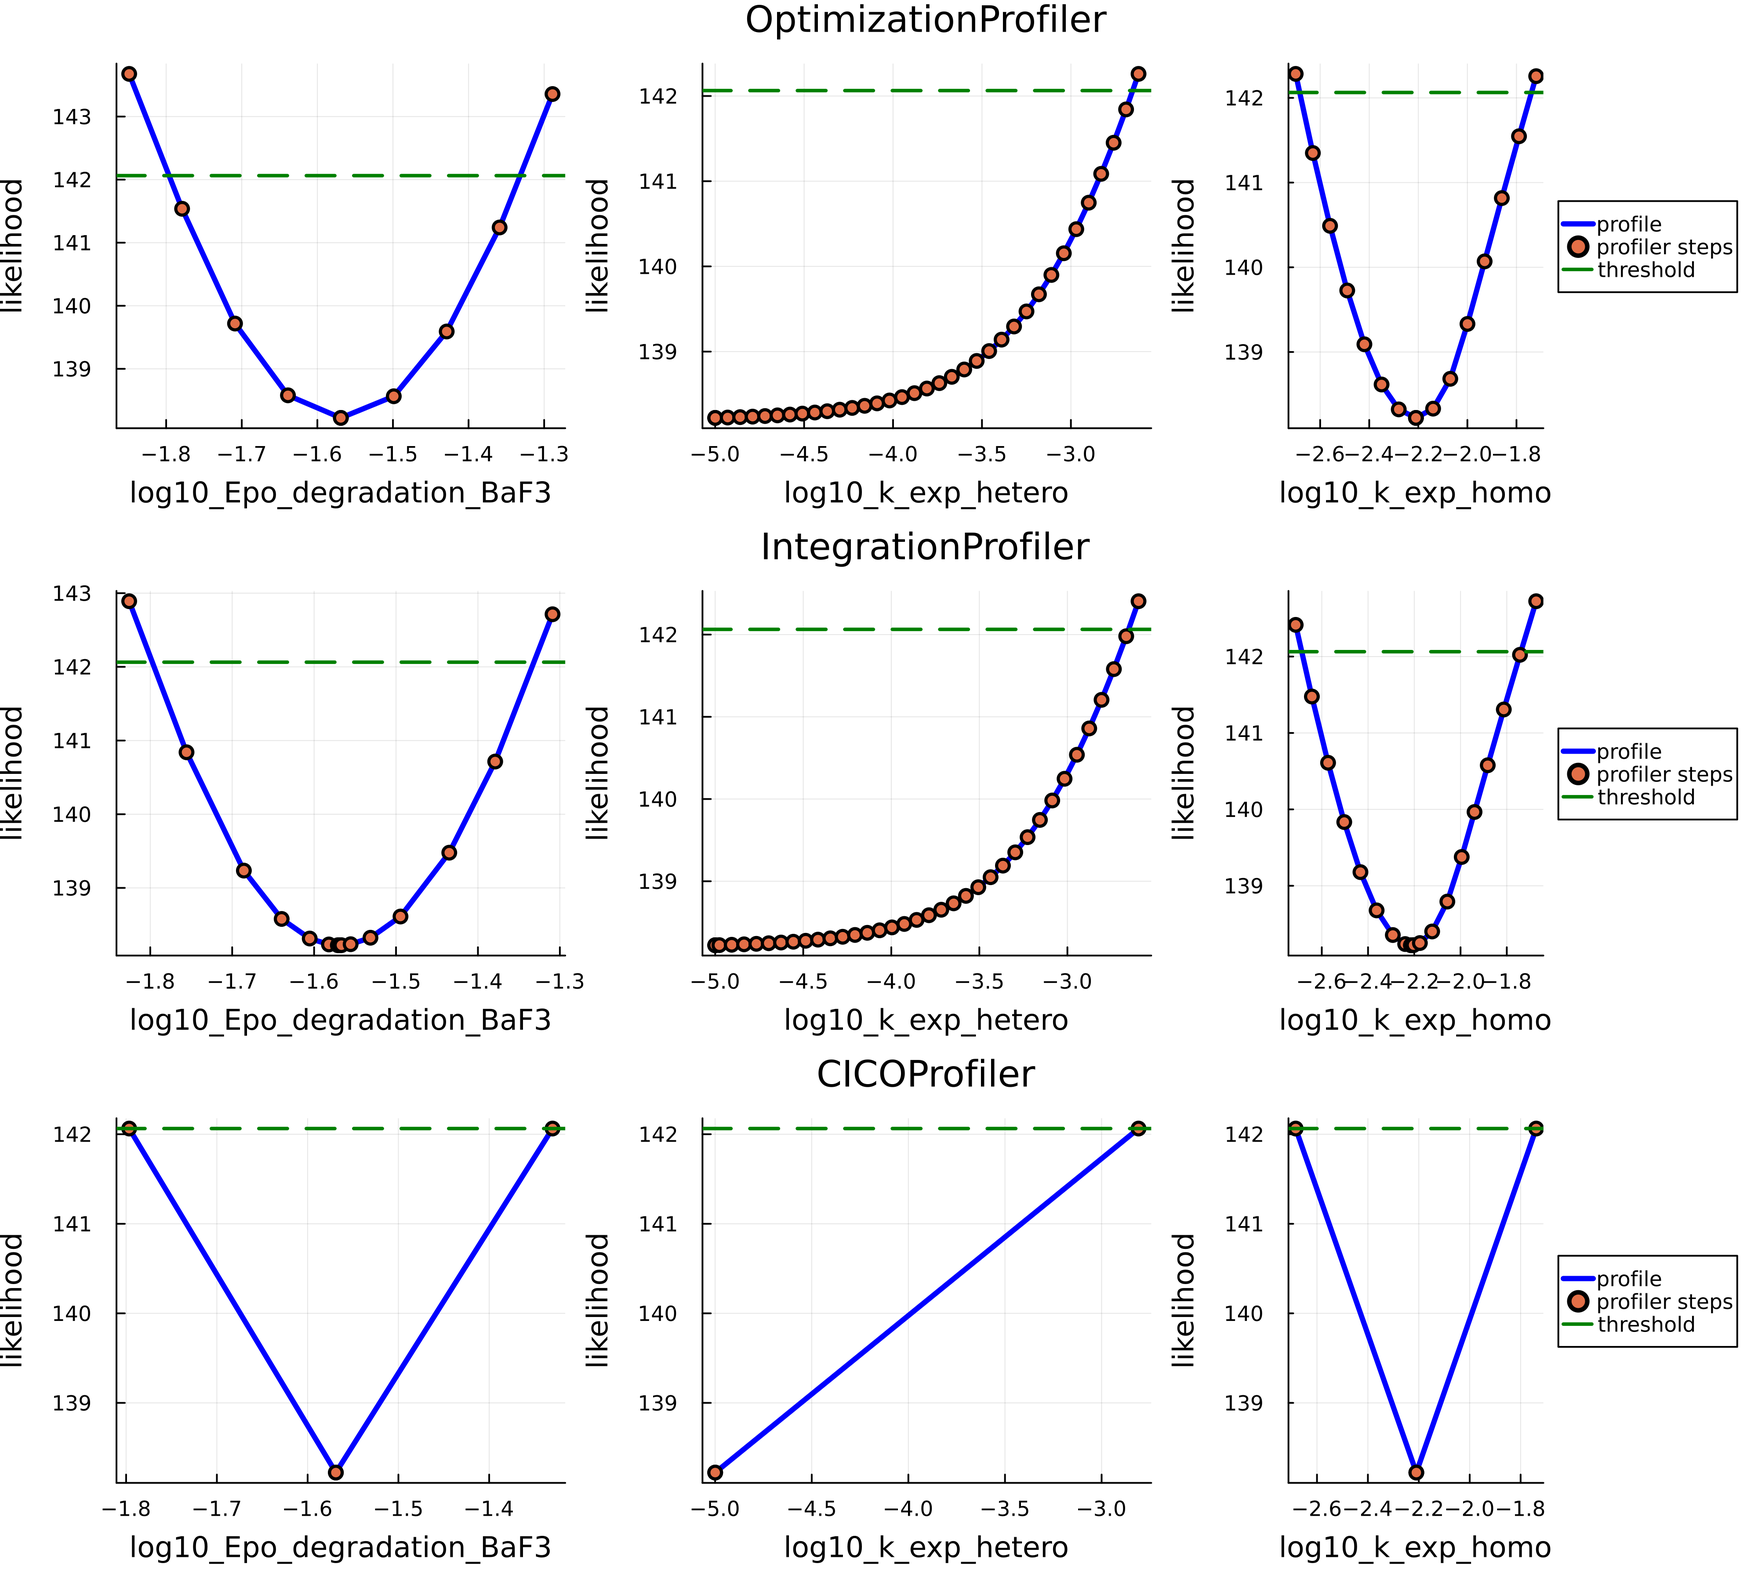
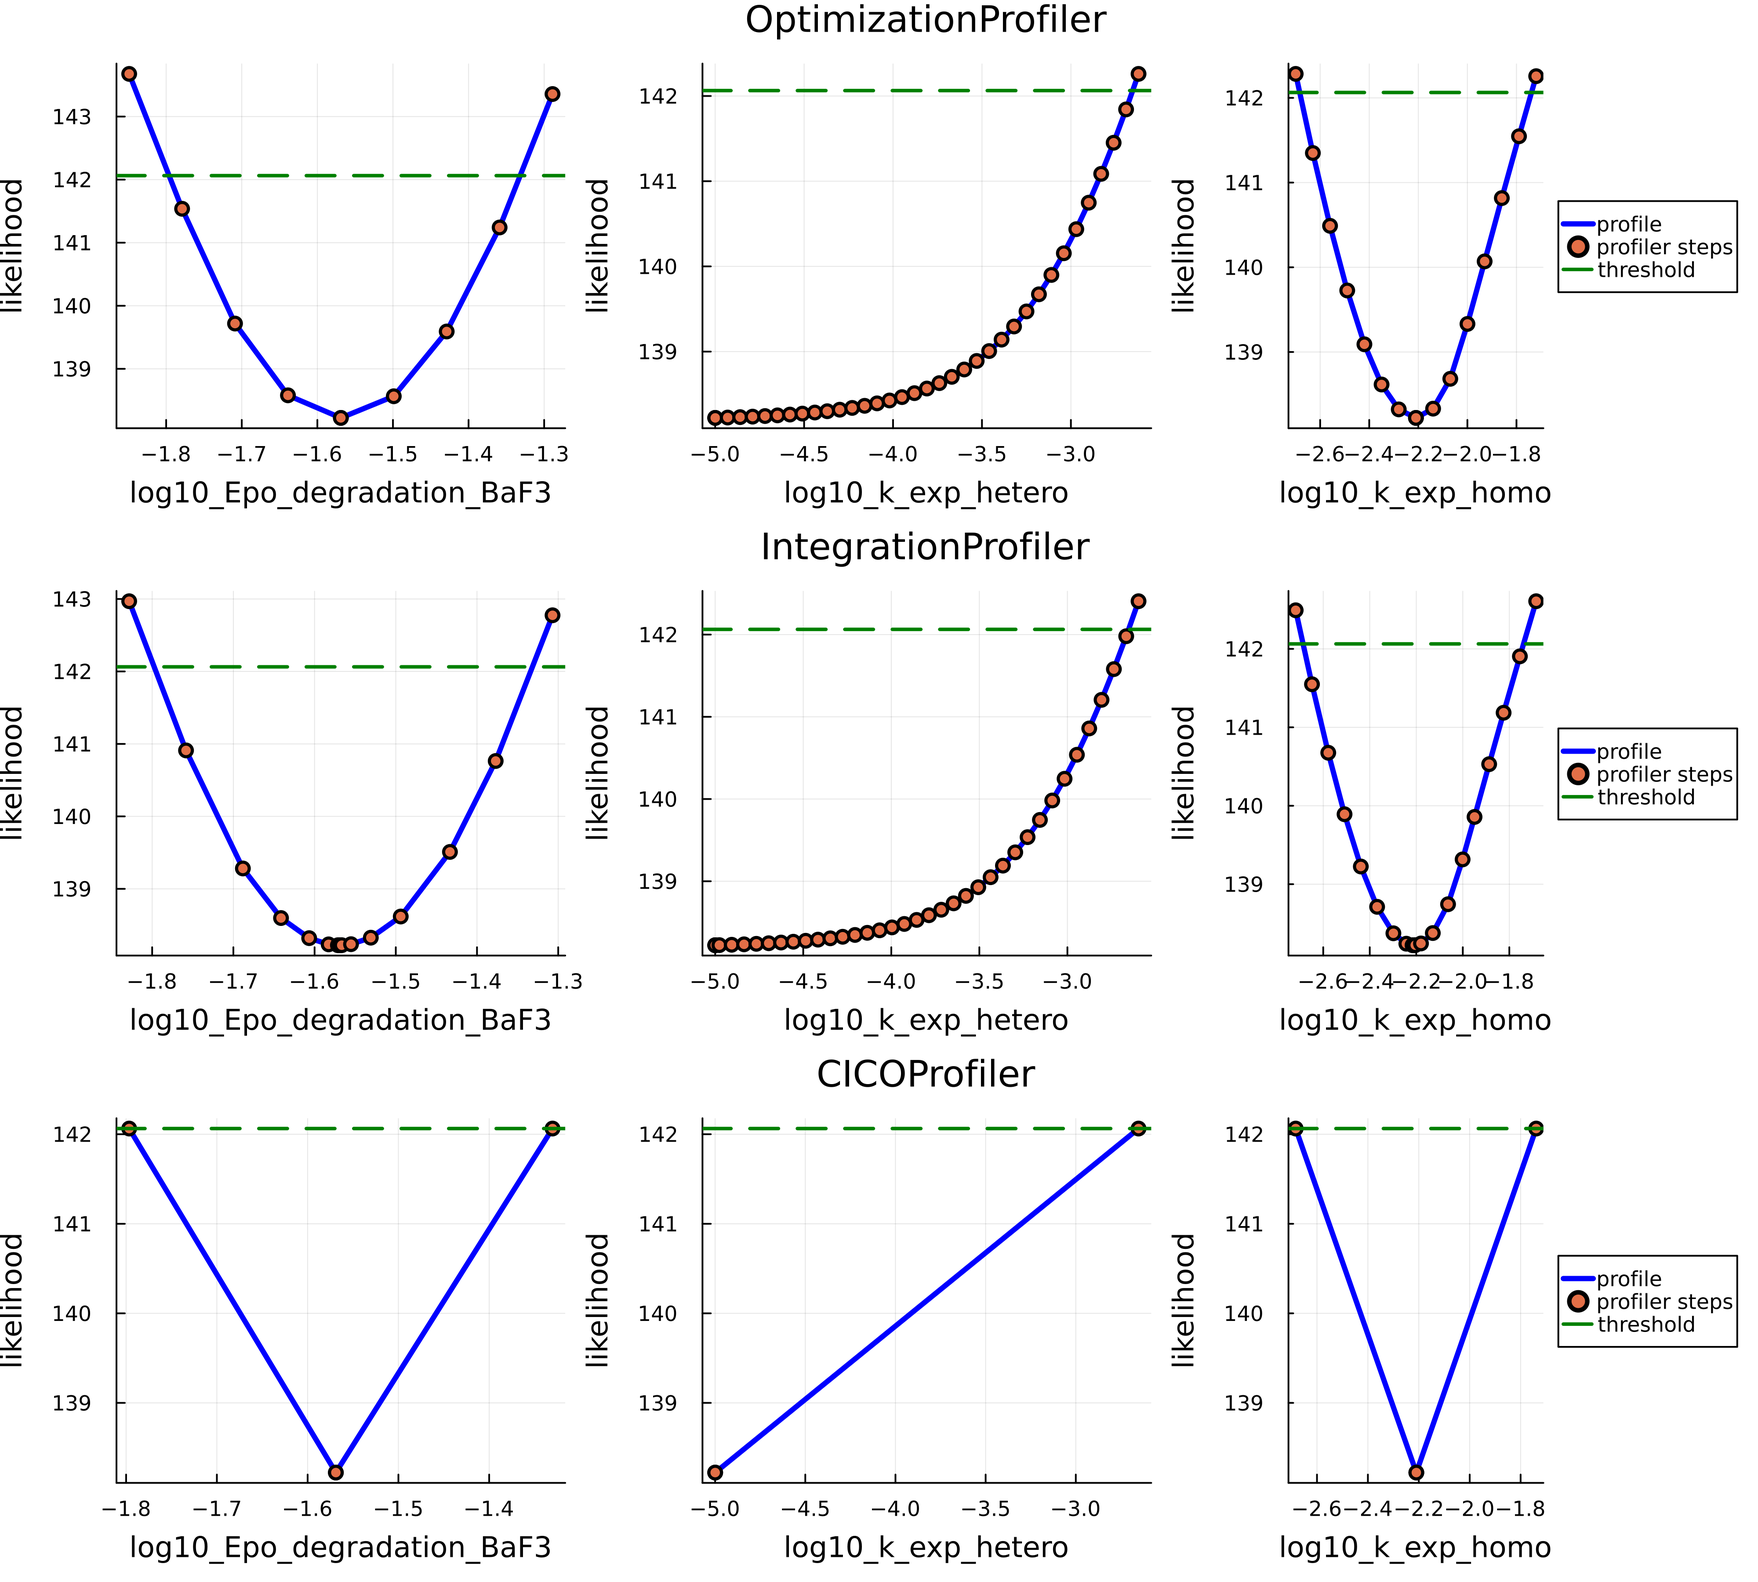
paper updated with LP 1.1.1

diff --git a/joss/paper.md b/joss/paper.md
@@ -29,11 +29,11 @@ bibliography: paper.bib
 
 Practical identifiability addresses the critical question of how well a mechanistic model is determined by the available experimental data. In a typical model's calibration workflow practical identifiability implies prior structural identifiability, which studies and resolves the uncertainty within the model structure independently from the available data. However, in many cases, profile likelihood-based methods are also used as a proxy for structural identifiability analysis, particularly when the complexity of a model makes structural methods inapplicable or computationally prohibitive [@Heinrich2025]. Moreover, profile likelihood techniques can be extended beyond parameter analysis to assess the identifiability of model states and predictions. This versatility makes profile likelihood analysis an essential component in the development and validation of models in Systems Biology (SB) and Quantitative Systems Pharmacology (QSP).
 
-LikelihoodProfiler.jl is an open-source Julia package designed to perform profile likelihood-based identifiability analyses by offering a unified and extensible interface.
+`LikelihoodProfiler.jl` is an open-source Julia package designed to perform profile likelihood-based identifiability analyses by offering a unified and extensible interface.
 
 ## Statement of Need
 
-Despite the widespread use of profile likelihood methods in practical identifiability analysis, existing tools often lack a common interface and extensive ecosystem integration, limiting accessibility and reproducibility. Also different profile likelihood based methods are implemented in different software tools, which requires the user to switch between different languages and software interfaces. LikelihoodProfiler.jl addresses these limitations by providing:
+Despite the widespread use of profile likelihood methods in practical identifiability analysis, existing tools often lack a common interface and extensive ecosystem integration, limiting accessibility and reproducibility. Also different profile likelihood based methods are implemented in different software tools, which requires the user to switch between different languages and software interfaces. `LikelihoodProfiler.jl` addresses these limitations by providing:
 - Unified interface to access multiple profiling methods.
 - Compatibility with common modeling standards (Heta [@Metelkin2021], PEtab [@Persson2025], SBML).
 - Integration with Julia’s SciML [@Rackauckas2017] for efficient computation and extensibility.
@@ -45,11 +45,11 @@ Despite the widespread use of profile likelihood methods in practical identifiab
 2. **IntegrationProfiler** computes likelihood profiles by solving differential equations derived from optimization problems, yielding smooth profiles. This method is advantageous but demands accurate Hessian computations or approximations, posing challenges for large models.
 3. **CICOProfiler** estimates confidence interval endpoints directly via constrained optimization, avoiding full-profile reconstruction, thus providing efficient confidence interval estimation for practical scenarios [@Borisov2020].
 
-All methods leverage a CommonSolve interface [@Rackauckas2017] (`CommonSolve.solve()`), supporting global settings for parallelization and verbosity. Profiling results are directly visualizable using the Plots.jl package and exportable as DataFrames for further analysis.
+All methods leverage a CommonSolve interface [@Rackauckas2017] (`CommonSolve.solve()`), supporting global settings for parallelization and verbosity. Profiling results are directly visualizable using the `Plots.jl` package and exportable as DataFrames for further analysis.
 
 ## Demonstrative Example: JAK/STAT Signaling Pathway Model
 
-LikelihoodProfiler.jl’s functionality and interfaces are demonstrated using the JAK/STAT signaling pathway model [@Boehm2014], which consists of 8 states and 9 parameters. The model and experimental data were sourced from the Benchmark-Models-PEtab repository [@petab_benchmark_collection] and imported through the PEtab.jl interface.
+`LikelihoodProfiler.jl`’s functionality and interfaces are demonstrated using the JAK/STAT signaling pathway model [@Boehm2014], which consists of 8 states and 9 parameters. The model and experimental data were sourced from the Benchmark-Models-PEtab repository [@petab_benchmark_collection] and imported through the `PEtab.jl` interface.
 
 ```julia
 using PEtab, Plots
@@ -57,7 +57,7 @@ petab_model = PEtabModel("Boehm_JProteomeRes2014.yaml")
 petab_problem = PEtabODEProblem(petab_model)
 ```
 
-To define a profile likelihood problem `ProfileLikelihoodProblem` one should provide the objective function (usually negative log likelihood) and the initial (optimal) values of the parameters that correspond to the minimum of the objective function. `LikelihoodProfiler` relies on the `Optimization.jl` interface [@vaibhav_kumar_dixit_2023_7738525], and `ProfileLikelihoodProblem` is built on top of the `OptimizationProblem` defined in `Optimization.jl`. :
+To define a profile likelihood problem `ProfileLikelihoodProblem` one should provide the objective function (usually negative log likelihood) and the initial (optimal) values of the parameters that correspond to the minimum of the objective function. `LikelihoodProfiler` relies on the `Optimization.jl` interface [@vaibhav_kumar_dixit_2023_7738525], and `ProfileLikelihoodProblem` is built on top of the `OptimizationProblem` defined in `Optimization.jl`. `ProfileLikelihoodProblem` also allows users to specify optional arguments common to different profiling methods, such as profile_range, threshold, and others:
 
 ```julia
 using Optimization, LikelihoodProfiler
@@ -65,20 +65,20 @@ optprob = OptimizationProblem(petab_problem)
 plprob = PLProblem(optprob, get_x(petab_problem))
 ```
 
-LikelihoodProfiler.jl offers a suite of methods for profiling likelihood functions and assessing practical identifiability. Each method includes several configurable options, such as optimizer or integrator selection, tolerances, and step size. The most straightforward method is OptimizationProfiler, which follows the classical approach of stepwise re-optimization of the likelihood function under a constraint on the parameter of interest.
+`LikelihoodProfiler.jl` offers a suite of methods for profiling likelihood functions and assessing practical identifiability. Each method includes several configurable options, such as optimizer or integrator selection, tolerances, and step size. The most straightforward method is `OptimizationProfiler`, which follows the classical approach of stepwise re-optimization of the likelihood function under a constraint on the parameter of interest.
 
 ```julia
 alg1 = OptimizationProfiler(optimizer = Optimization.LBFGS(), stepper = FixedStep(; initial_step=0.07))
 ```
 
-A more advanced method is the IntegrationProfiler, which computes likelihood profiles by solving a system of differential equations derived from the underlying optimization problem. This method requires a differential equation solver (integrator) to be specified.
+A more advanced method is the `IntegrationProfiler`, which computes likelihood profiles by solving a system of differential equations derived from the underlying optimization problem. This method requires a differential equation solver (integrator) to be specified.
 
 ```julia
 using OrdinaryDiffEq
 alg2 = IntegrationProfiler(integrator = Tsit5(), integrator_opts = (dtmax=0.07,), matrix_type = :hessian)
 ```
 
-An alternative approach, implemented in CICOProfiler, estimates the confidence intervals (CI) endpoints directly—without reconstructing the full profile—by solving a constrained optimization problem [@Borisov2020]. This method is often more efficient when only the CI is required.
+An alternative approach, implemented in `CICOProfiler`, estimates the confidence intervals (CI) endpoints directly—without reconstructing the full profile—by solving a constrained optimization problem [@Borisov2020]. This method is often more efficient when only the CI is required.
 
 ```julia
 alg3 = CICOProfiler(optimizer = :LN_NELDERMEAD, scan_tol = 1e-10)
@@ -90,7 +90,7 @@ All profiling methods share a common `solve()` interface.
 sol = solve(plprob, alg1)
 ```
 
-All three profiling approaches yielded comparable confidence intervals, emphasizing the reliability and flexibility of LikelihoodProfiler.jl for different modeling scenarios.
+All three profiling approaches yielded comparable confidence intervals, emphasizing the reliability and flexibility of `LikelihoodProfiler.jl` for different modeling scenarios.
 
 Below are the profile likelihoods for the first three parameters of the JAK/STAT model, computed using the three methods:
 
@@ -98,30 +98,31 @@ Below are the profile likelihoods for the first three parameters of the JAK/STAT
 
 All three methods reported similar CI for the JAK/STAT model, which can be accessed using the `get_endpoint()` function.
 
-| **Parameter**     | **OptimizationProfiler** | **IntegrationProfiler** | **CICOProfiler** |
+| **parameter**     | **OptimizationProfiler** | **IntegrationProfiler** | **CICOProfiler** |
 |------------------------------:|----------------------------------------------:|---------------------------------------------:|--------------------------------------:|
-| log10\_Epo\_degradation\_BaF3 | (-1.79612, -1.33173)                          | (-1.79748, -1.33172)                         | (-1.79661, -1.3302)                   |
-| log10\_k\_exp\_hetero         | (nothing, -2.65263)                           | (nothing, -2.65244)                          | (nothing, -2.8089)                    |
-| log10\_k\_exp\_homo           | (-2.68323, -1.73872)                          | (-2.68661, -1.73886)                         | (-2.68367, -1.73888)                  |
-| log10\_k\_imp\_hetero         | (-1.94661, -1.62555)                          | (-1.94707, -1.6217)                          | (-1.94888, -1.62229)                  |
+| log10\_Epo\_degradation\_BaF3 | (-1.79612, -1.33173)                          | (-1.7975, -1.33177)                          | (-1.79661, -1.3302)                   |
+| log10\_k\_exp\_hetero         | (nothing, -2.65263)                           | (nothing, -2.65244)                          | (nothing, -2.65213)                   |
+| log10\_k\_exp\_homo           | (-2.68323, -1.73872)                          | (-2.68658, -1.73878)                         | (-2.68367, -1.73888)                  |
+| log10\_k\_imp\_hetero         | (-1.94661, -1.62555)                          | (-1.94726, -1.62151)                         | (-1.94888, -1.62229)                  |
 | log10\_k\_imp\_homo           | (-0.109411, nothing)                          | (-0.109301, nothing)                         | (-0.109678, nothing)                  |
-| log10\_k\_phos                | (4.08355, 4.33082)                            | (4.08025, 4.33155)                           | (4.07836, 4.33194)                    |
-| log10\_sd\_pSTAT5A\_rel       | (0.364585, 0.870501)                          | (0.364487, 0.869323)                         | (0.362142, 0.870803)                  |
-| log10\_sd\_pSTAT5B\_rel       | (0.625924, 1.08439)                           | (0.624763, 1.08514)                          | (0.62272, 1.0853)                     |
-| log10\_sd\_rSTAT5A\_rel       | (0.312047, 0.762828)                          | (0.312496, 0.763286)                         | (0.307907, 0.763785)                  |
+| log10\_k\_phos                | (4.08355, 4.33082)                            | (4.07961, 4.3315)                            | (4.07836, 4.33194)                    |
+| log10\_sd\_pSTAT5A\_rel       | (0.364585, 0.870501)                          | (0.363312, 0.869364)                         | (0.362142, 0.870803)                  |
+| log10\_sd\_pSTAT5B\_rel       | (0.625924, 1.08439)                           | (0.627294, 1.08405)                          | (0.62272, 1.0853)                     |
+| log10\_sd\_rSTAT5A\_rel       | (0.312047, 0.762828)                          | (0.311183, 0.762745)                         | (0.307908, 0.763785)                  |
+
 
 \* `nothing` here means that the parameter is not restricted within the parameter range, i.e. it does not meet the threshold for being considered identifiable.
 
 The optimal profiling method and settings depend on the complexity of the model and the goal of the analysis:
-- OptimizationProfiler benefits from the choice of optimization algorithm (e.g., gradient-based or derivative-free) but may be computationally intensive.
-- IntegrationProfiler provides smooth profile trajectories but requires Hessian computation or approximation, which may be challenging for large-scale models.
-- CICOProfiler is often more efficient for fast CI estimation when the full profile is not needed.
+- `OptimizationProfiler` benefits from the choice of optimization algorithm (e.g., gradient-based or derivative-free) but may be computationally intensive.
+- `IntegrationProfiler` provides smooth profile trajectories but requires Hessian computation or approximation, which may be challenging for large-scale models.
+- `CICOProfiler` is often more efficient for fast CI estimation when the full profile is not needed.
 
 ## Implementation and Extensibility
 
-All profiling methods benefit from the unified interface provided by LikelihoodProfiler.jl:
-- Integration with SciML packages gives users access to a wide range of optimizers, differential equation solvers, and AD backends, enabling efficient profiling configurations.
-- Compatibility with Heta, PEtab and SBML formats broadens the accessibility of the package across different modeling frameworks.
+All profiling methods benefit from the unified interface provided by `LikelihoodProfiler.jl`:
+- Integration with `SciML` packages gives users access to a wide range of optimizers, differential equation solvers, and AD backends, enabling efficient profiling configurations.
+- Compatibility with `Heta`, `PEtab` and `SBML` formats broadens the accessibility of the package across different modeling frameworks.
 - `solve()` interface provided by `CommonSolve.jl` provides unified access various profiling methods 
 - A common parallelization setup, controlled via the `parallel_type` argument in the `solve()` function, is supported across all methods and can significantly accelerate computations.
 - The interface facilitates integration of new profiling methods and stepping algorithms.
@@ -148,8 +149,7 @@ bivariate profile likelihoods.
 
 `InformationGeometry.jl` approaches the problem from a differential-geometric perspective, exposing tools to analyze 
 likelihood surfaces (including profiles support). 
-While these packages target overlapping use cases, their APIs and underlying methods are specialized 
-and not designed around a single, unified profile likelihood interface.
+While these packages target overlapping use cases, they do not aim to provide multiple profiling methods through a unified profile likelihood interface.
 
 Outside Julia, widely used workflows include `Data2Dynamics (MATLAB)`, `dMod (R)`, `pyPESTO (Python)` which combine parameter estimation, sensitivity analysis, and profile likelihoods within end-to-end modeling environments. 
 Additional domain-specific toolboxes (e.g. MATLAB SimBiology) provide tools to estimate likelihood profiles. 

diff --git a/joss/ci_table.md b/joss/ci_table.md
@@ -1,0 +1,11 @@
+| **parameter**<br>`Symbol`     | **OptimizationProfiler**<br>`Tuple{Any, Any}` | **IntegrationProfiler**<br>`Tuple{Any, Any}` | **CICOProfiler**<br>`Tuple{Any, Any}` |
+|------------------------------:|----------------------------------------------:|---------------------------------------------:|--------------------------------------:|
+| log10\_Epo\_degradation\_BaF3 | (-1.79612, -1.33173)                          | (-1.7975, -1.33177)                          | (-1.79661, -1.3302)                   |
+| log10\_k\_exp\_hetero         | (nothing, -2.65263)                           | (nothing, -2.65244)                          | (nothing, -2.65213)                   |
+| log10\_k\_exp\_homo           | (-2.68323, -1.73872)                          | (-2.68658, -1.73878)                         | (-2.68367, -1.73888)                  |
+| log10\_k\_imp\_hetero         | (-1.94661, -1.62555)                          | (-1.94726, -1.62151)                         | (-1.94888, -1.62229)                  |
+| log10\_k\_imp\_homo           | (-0.109411, nothing)                          | (-0.109301, nothing)                         | (-0.109678, nothing)                  |
+| log10\_k\_phos                | (4.08355, 4.33082)                            | (4.07961, 4.3315)                            | (4.07836, 4.33194)                    |
+| log10\_sd\_pSTAT5A\_rel       | (0.364585, 0.870501)                          | (0.363312, 0.869364)                         | (0.362142, 0.870803)                  |
+| log10\_sd\_pSTAT5B\_rel       | (0.625924, 1.08439)                           | (0.627294, 1.08405)                          | (0.62272, 1.0853)                     |
+| log10\_sd\_rSTAT5A\_rel       | (0.312047, 0.762828)                          | (0.311183, 0.762745)                         | (0.307908, 0.763785)                  |
